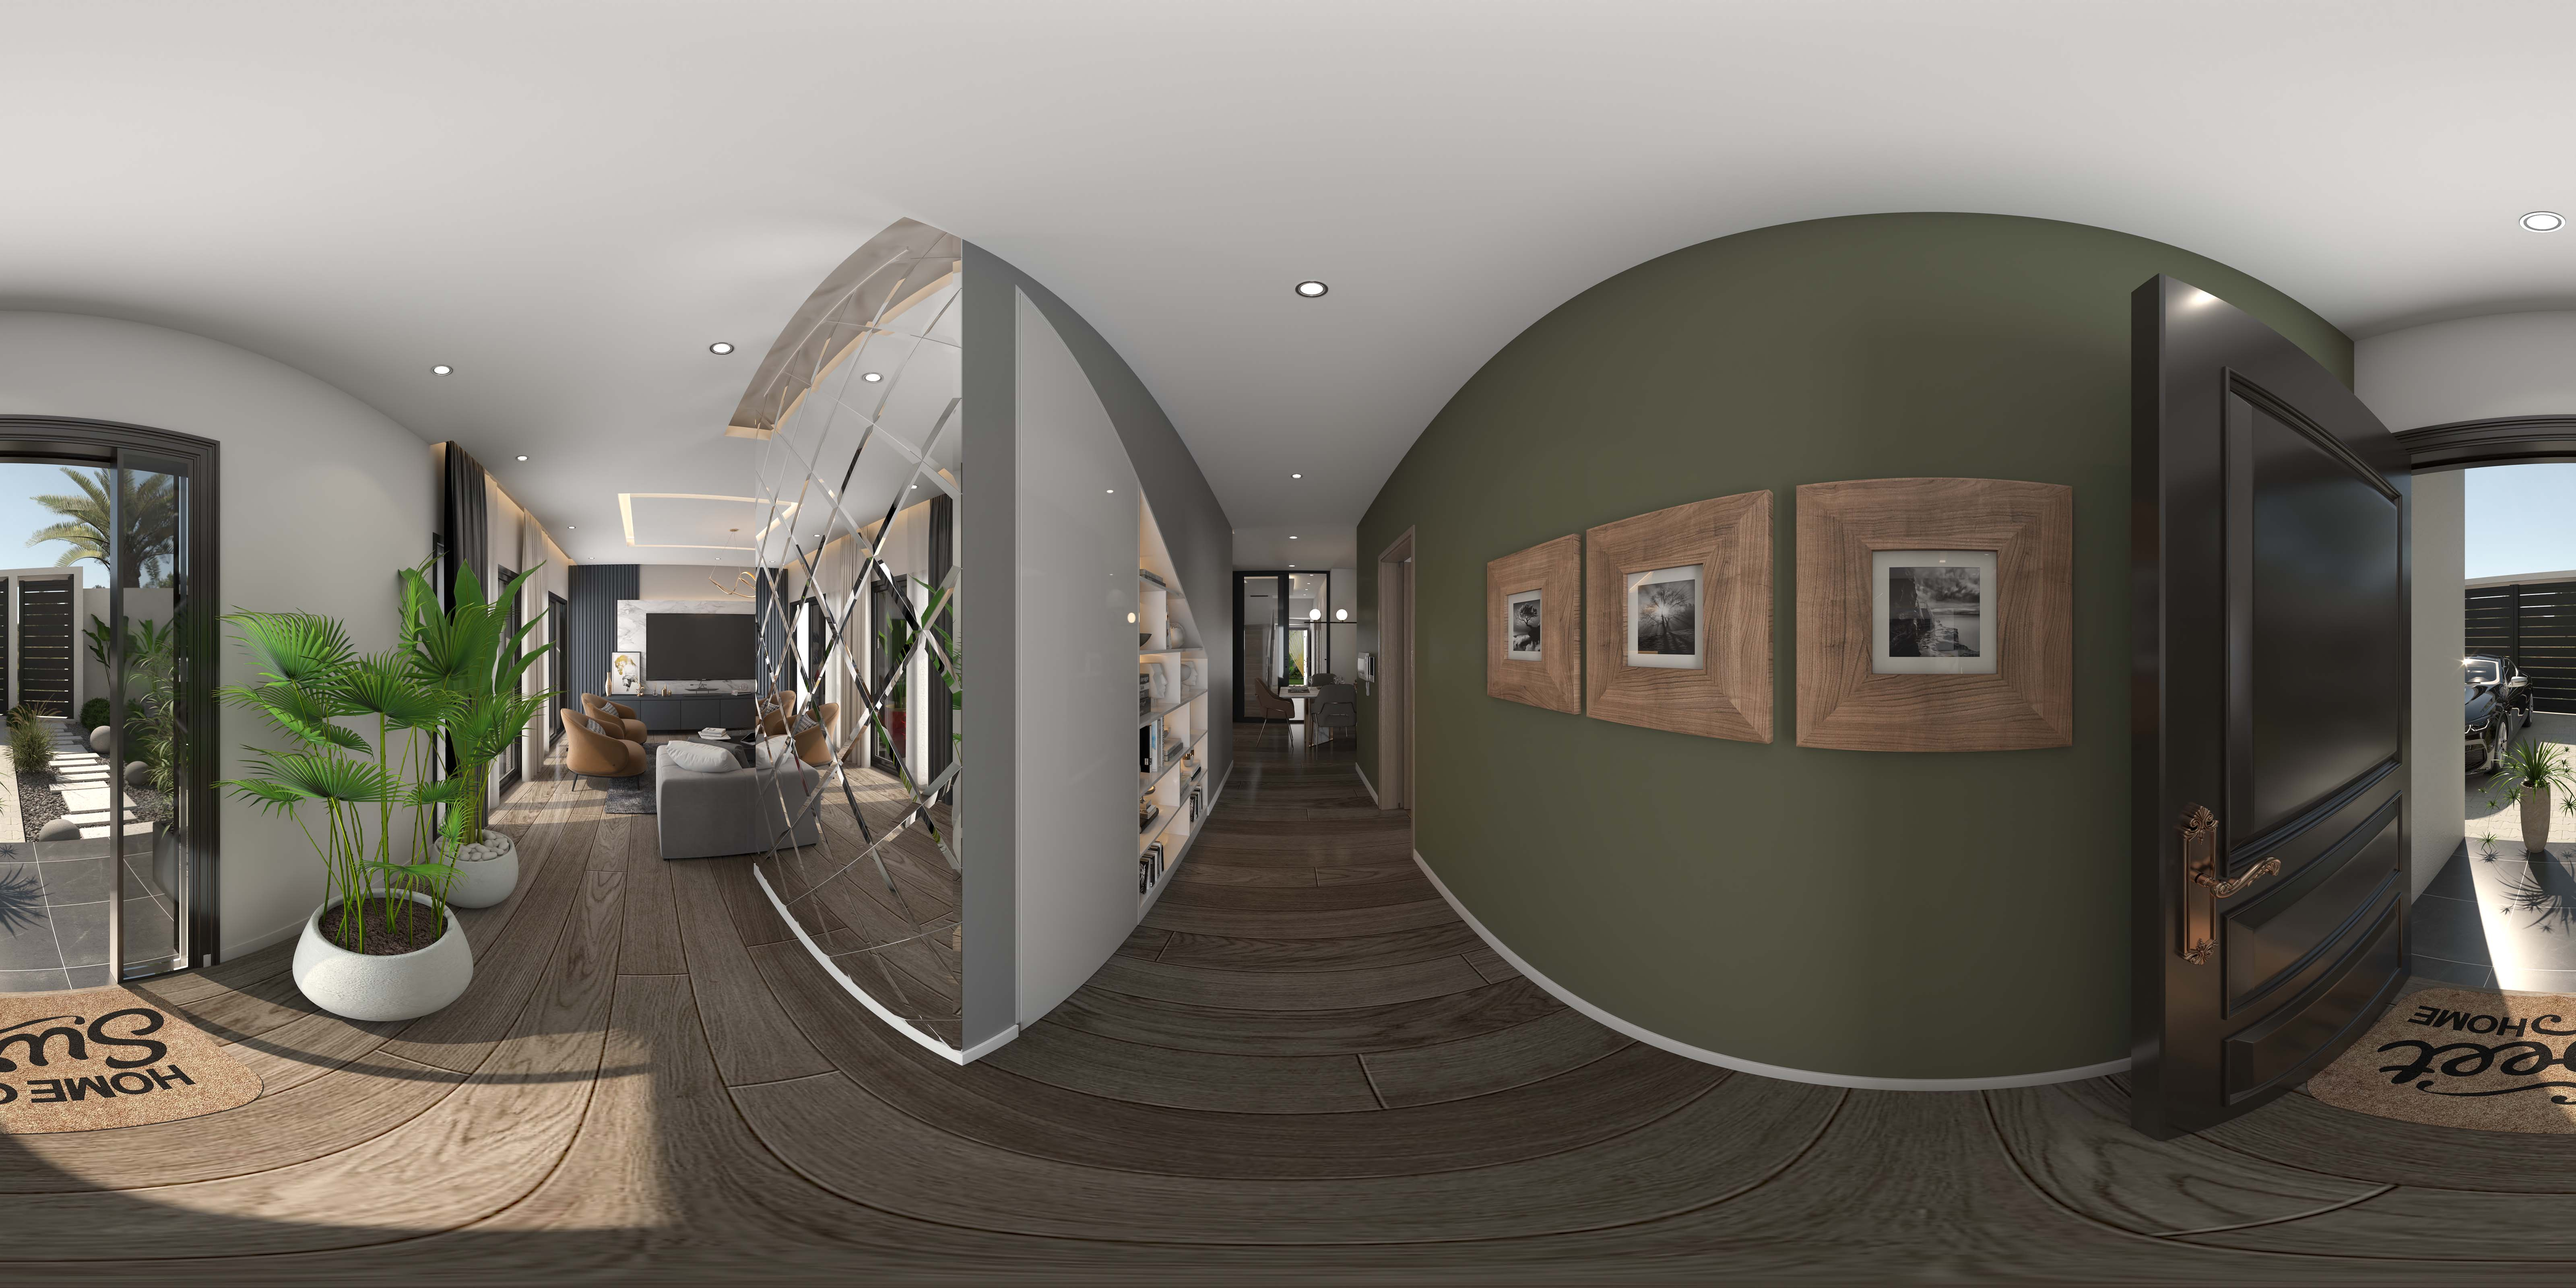
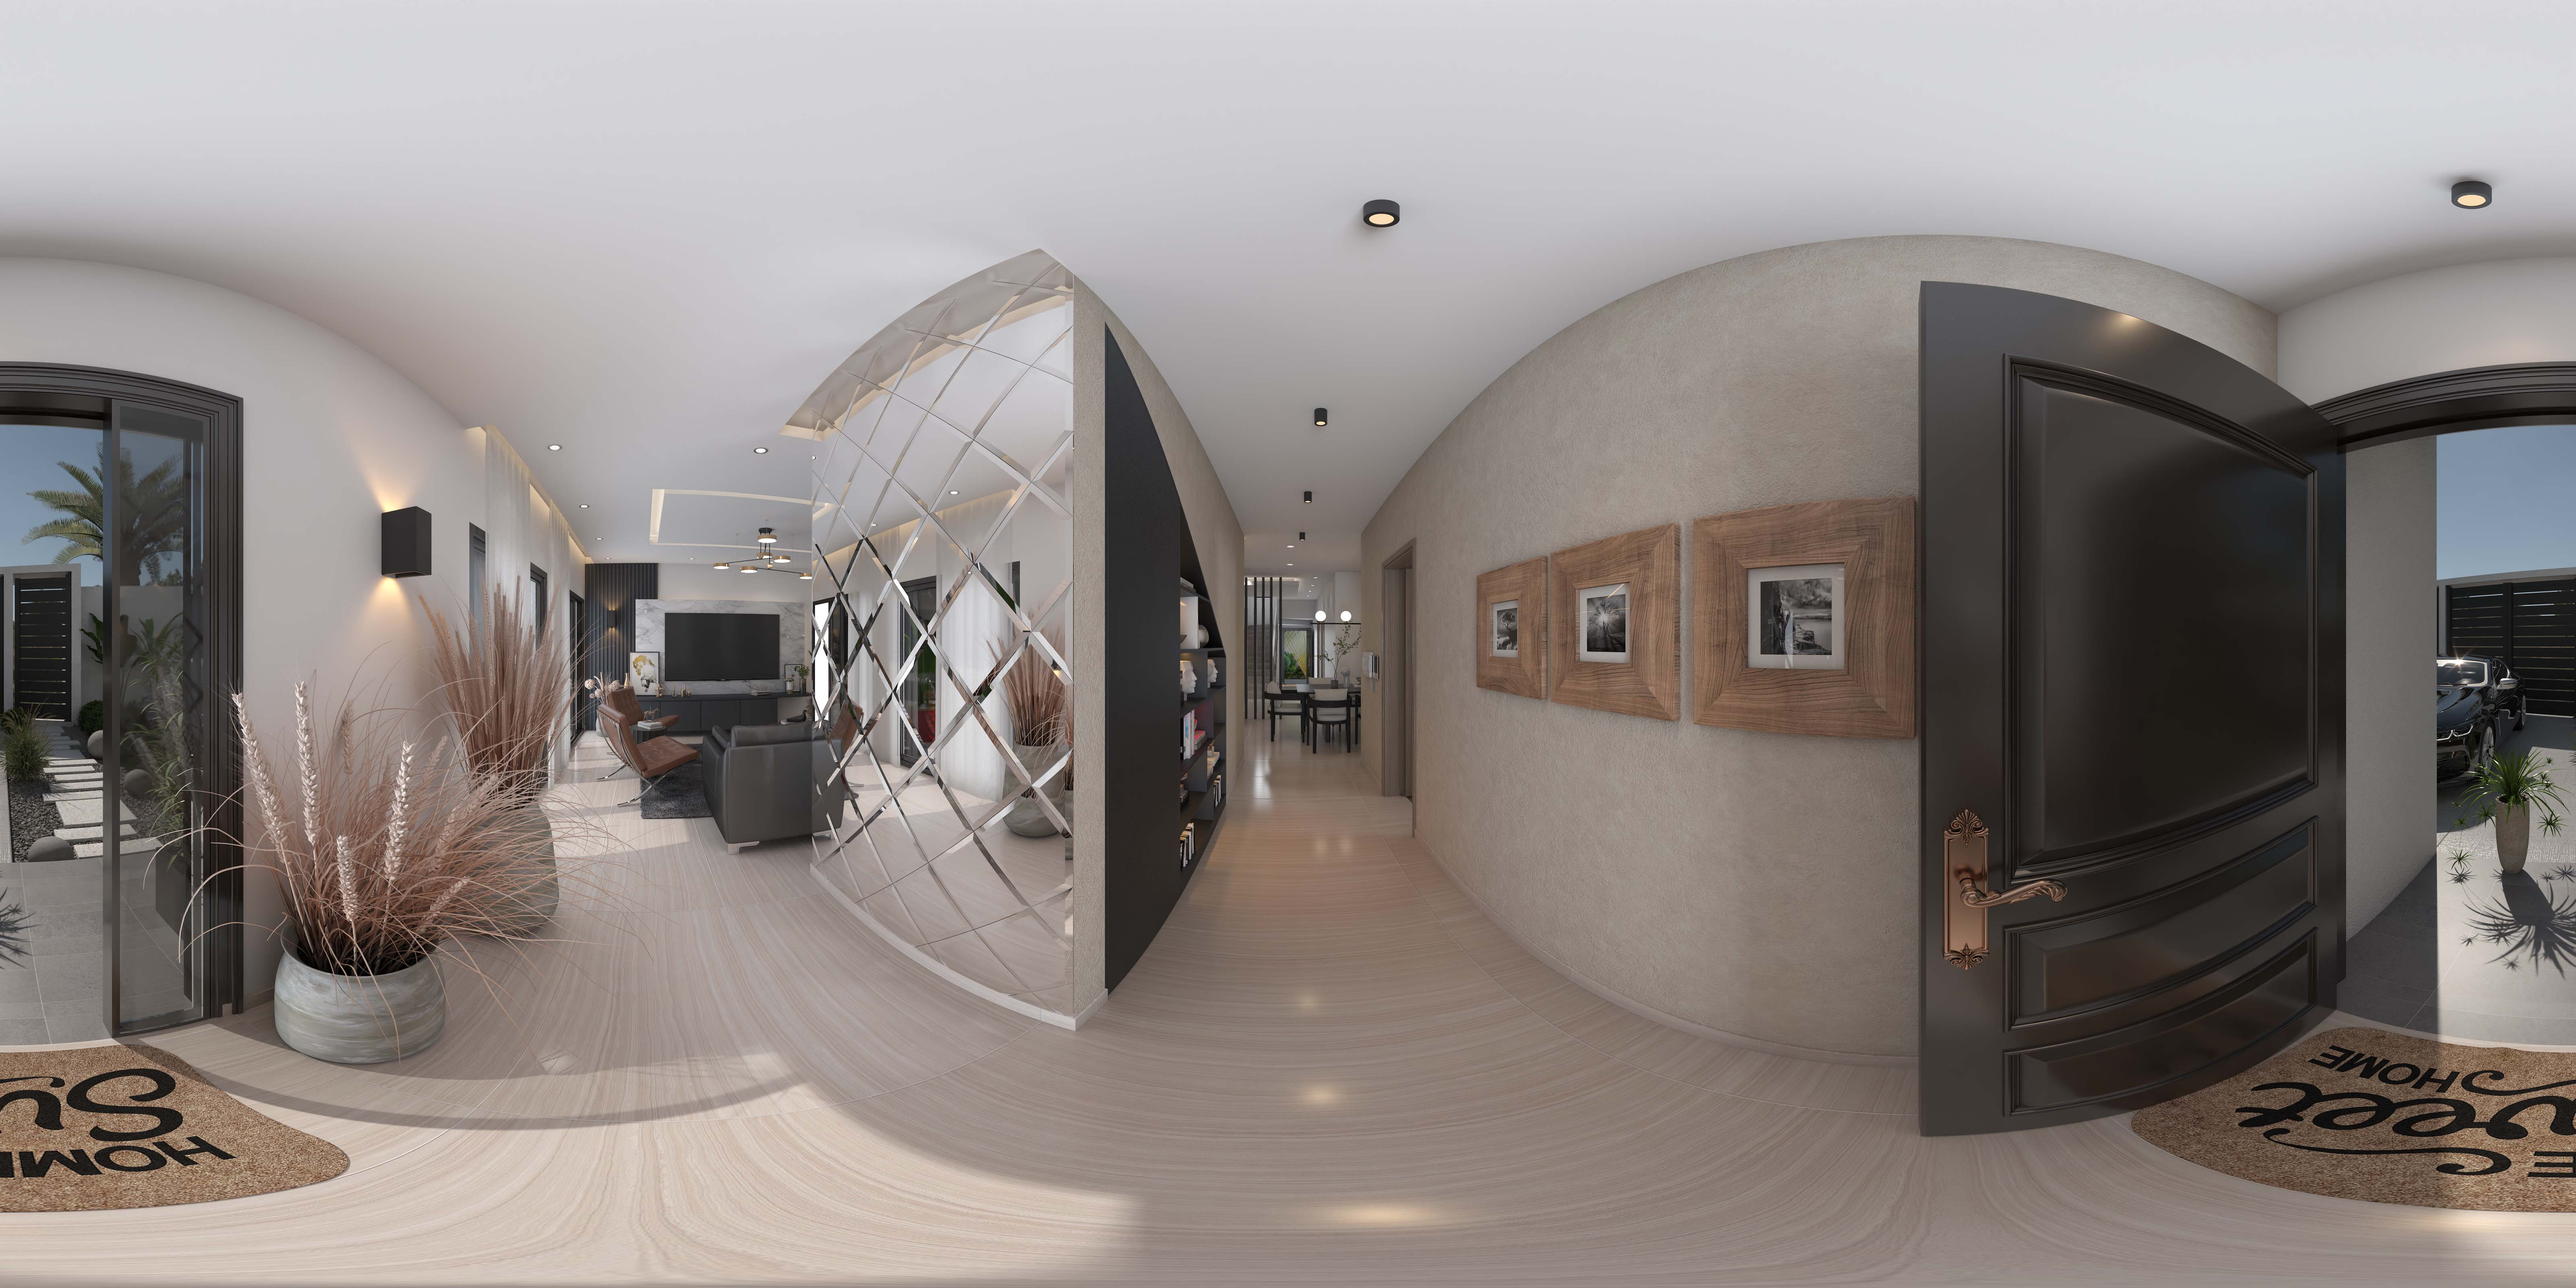
first commit-3

diff --git a/index.html b/index.html
@@ -43,7 +43,7 @@ de haut standing" />
 
     <a-scene id="the_scene" the_scene cursor="rayOrigin: mouse">
 
-        <a-sky id="image-360" radius="500" rotation="0 0 0" src="#Scene-0" look-controls-invert-y="false"
+        <a-sky id="image-360" radius="500" rotation="0 0 0" src="#Scene-5" look-controls-invert-y="false"
             animation__fade="property: components.material.material.color; type: color;  startEvents: fade"
             animation__fadeback="property: components.material.material.color; type: color; from: #000; to: #FFF; dur: 300; startEvents: animationcomplete__fade">
         </a-sky>
@@ -89,7 +89,7 @@ de haut standing" />
         <!-- ############################################################ -->
         <!-- ############################################################ -->
         <!-- Group-0. -->
-        <a-entity scale="1 1 1 " rotation="0 0 0" class="groups" id="Group-0" visible="true">
+        <a-entity scale="0 0 0 " rotation="0 0 0" class="groups" id="Group-0" visible="false">
 
             <a-plane data-clickable class="pintings clickable" position="-4.28521 -0.6393 0.07366"
                 rotation="-76.95396146402086 99.8573763665804 -7.395166261753535"
@@ -187,23 +187,24 @@ de haut standing" />
         </a-entity>
         <!-- ############################################################ -->
         <!-- Group-5 -->
-        <a-entity scale="0 0 0" class="groups" id="Group-5" visible="false">
+        <a-entity scale="1 1 1" class="groups" id="Group-5" visible="true">
 
             <a-plane data-clickable class="Dote" material="src: #Arrow-1; transparent:true"
-                position="0.65318 -0.67352 4.18281" rotation="-88.27789932698646 -164.0807885805895 -108.92615234791106"
+                position="0.11356 -0.67352 4.18281" rotation="-88.27789932698646 -164.0807885805895 -108.92615234791106"
                 the_dote="Name_of_dote: Dote-7 ; Group_to_activate: Group-7 ; The_rotation:  0">
             </a-plane>
 
-            <a-plane data-clickable class="Dote" material="src: #Arrow-1; transparent:true"
+
+            <!-- <a-plane data-clickable class="Dote" material="src: #Arrow-1; transparent:true"
                 position="3.1054 -0.67352 -0.30415" rotation="-74.40544519127897 -96.17153887050381 -177.0536989779416"
                 the_dote="Name_of_dote: Dote-4 ; Group_to_activate: Group-4 ; The_rotation:  0">
-            </a-plane>
+            </a-plane> -->
 
-            <a-plane data-clickable class="Dote" material="src: #Arrow-1; transparent:true"
+            <!-- <a-plane data-clickable class="Dote" material="src: #Arrow-1; transparent:true"
                 position="-2.97752 -0.67352 -0.07469"
                 rotation="-88.27789932698646 -164.0807885805895 -108.92615234791106"
                 the_dote="Name_of_dote: Dote-13 ; Group_to_activate: Group-13 ; The_rotation:  0">
-            </a-plane>
+            </a-plane> -->
 
         </a-entity>
         <!-- ############################################################ -->
@@ -241,17 +242,19 @@ de haut standing" />
         <a-entity scale="0 0 0" class="groups" id="Group-8" visible="false">
 
             <a-plane data-clickable class="Dote" material="src: #Arrow-1; transparent:true"
-                position="1.11412 -0.67352 -5.3962" rotation="-86.74924792957742 -120.64256630054128 -152.398179137872"
+                position="1.49888 -0.42612 -4.53532" rotation="-86.74924792957742 -120.64256630054128 -152.398179137872"
                 the_dote="Name_of_dote: Dote-7 ; Group_to_activate: Group-7 ; The_rotation:  0">
             </a-plane>
-            <a-plane data-clickable class="Dote" material="src: #Arrow-1; transparent:true"
+
+            <!-- <a-plane data-clickable class="Dote" material="src: #Arrow-1; transparent:true"
                 position="-3.5969 -0.67352 -0.1419" rotation="-86.74924792957742 -120.64256630054128 -152.398179137872"
                 the_dote="Name_of_dote: Dote-9 ; Group_to_activate: Group-9 ; The_rotation:  0">
-            </a-plane>
-            <a-plane data-clickable class="Dote" material="src: #Arrow-1; transparent:true"
+            </a-plane> -->
+
+            <!-- <a-plane data-clickable class="Dote" material="src: #Arrow-1; transparent:true"
                 position="-7.05843 -1.13932 -3.82709" rotation="-84.802910299518 108.60644189822807 -21.53576464558225"
                 the_dote="Name_of_dote: Dote-10 ; Group_to_activate: Group-10 ; The_rotation:  0">
-            </a-plane>
+            </a-plane> -->
 
         </a-entity>
         <!-- ############################################################ -->
